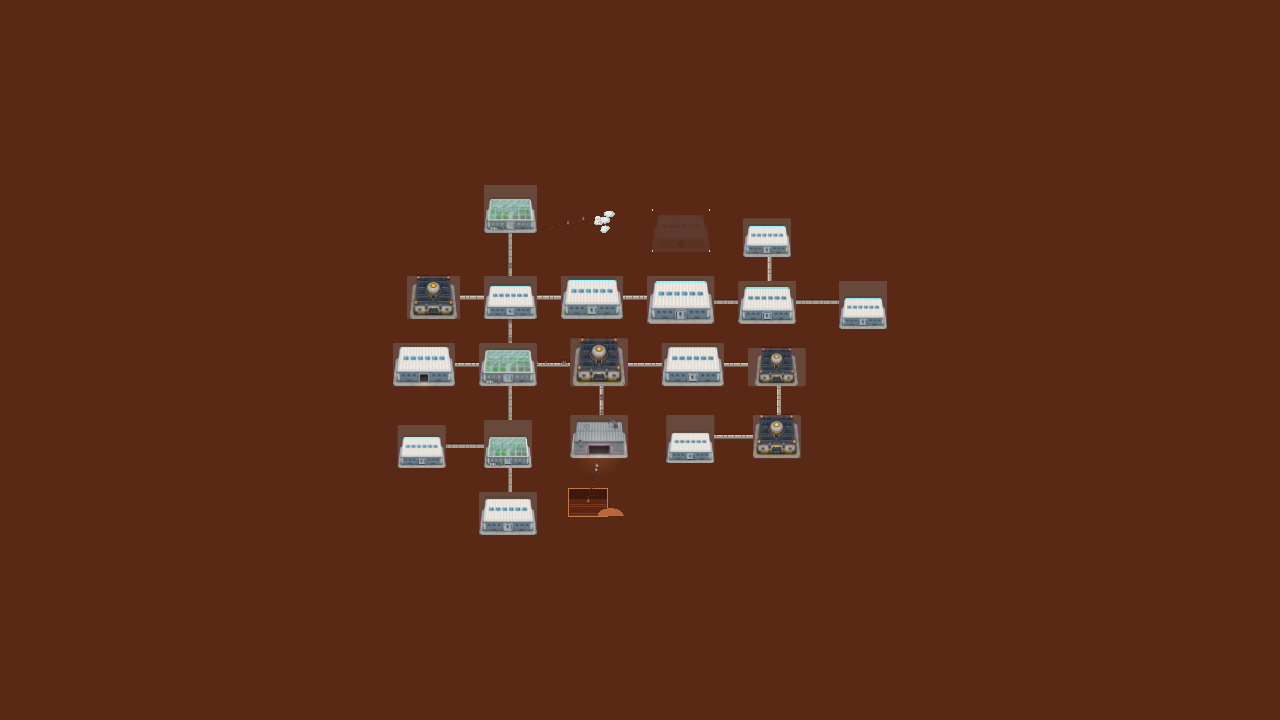
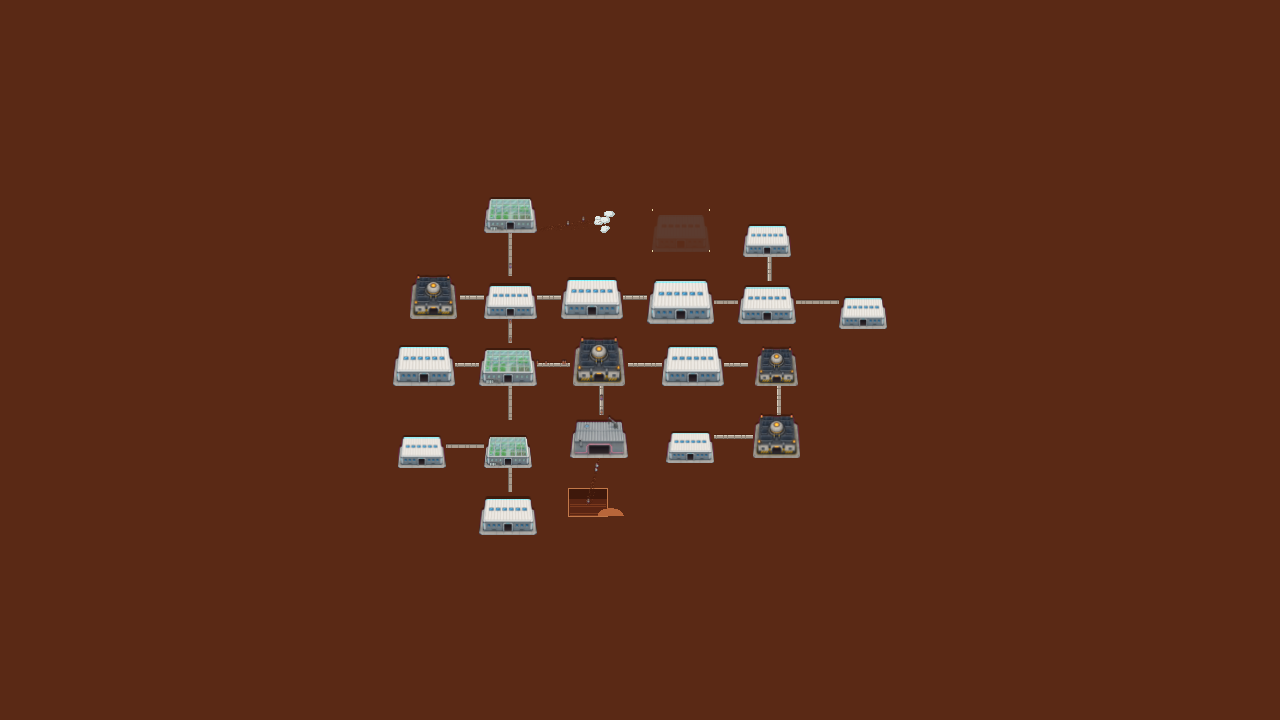
Task 2 review follow-ups: rebuilt manifest, refreshed far-zoom shots, LOD in spec
Adds a test that the committed manifest matches the committed art.json.

Claude-Session: https://claude.ai/code/session_01QaX6oeFXBBASm1RqZomNqz

diff --git a/station-zero/tools/tests/test_assets.py b/station-zero/tools/tests/test_assets.py
@@ -1772,3 +1772,15 @@ class TestAbsentRawsUsePlaceholderPath(PipelineCase):
 
 if __name__ == "__main__":
     unittest.main(verbosity=2)
+
+
+class TestCommittedManifestIsCurrent(unittest.TestCase):
+    """The committed manifest must match the committed art.json without a rebuild."""
+
+    def test_art_json_hash_matches_before_any_rebuild(self):
+        import hashlib, json
+        from pathlib import Path
+        root = Path(__file__).resolve().parents[2]
+        want = hashlib.sha256((root / "data" / "art.json").read_bytes()).hexdigest()
+        got = json.loads((root / "assets" / "processed" / "manifest.json").read_text())["art_json_sha256"]
+        self.assertEqual(got, want, "run python3 tools/build_all.py and commit the manifest")

diff --git a/station-zero/docs/specs/sprite-view.md b/station-zero/docs/specs/sprite-view.md
@@ -524,6 +524,9 @@ Kind table `art.kinds.<kind>`: `accent` (class for real art: reactor amber, habi
 - Particles emitted in an update are not aged in that update; `emitted` counts accepted plus dropped.
 - Tolerances: float32 Rect2/Vector2, so 1e-5 on scale, `fit.epsilon_px` on positions, 1e-4 on leaf offsets, 1e-3 on interior walk speed.
 
+## Level of detail (step 17)
+Below `lod.detail_min_zoom` (1.0) the view draws each building as its base plus one grouped light pass (accent and window masks by kind), and skips door leaves, halo copies, ground strips, door glow and foundation pads. Beings keep their sprite and skip the shadow and lamp glow. Offline dimming and construction phases stay visible at any zoom. Above the threshold nothing changes.
+
 ## Changelog
 - 2026-10-03 draft by game-designer. Pending: code-reviewer sign-off against HANDOFF sections 2 and 6 and the cited prototype lines.
 - 2026-10-03 revision 2 (code-reviewer findings B1-B7 and 10 non-blocking, owner decisions Q1-Q8). B1 `pipeline.raw_dirs` and `raw_ignore`; B2 `art.optional` (decals, sleeping poses), presence rule, `raw_sha256`, P-13, P-14, P-15; B3 violet class and real/placeholder accent per kind, P-7 for every kind with an accent; B4 shadow dx at h=4 is -12.0, clamp case at h=3 is -12.6; B5 walk phase clamp without pose jump (deviation from proto L1446 noted); B6 `interior_width_px` 512, budget 48 MB with a 44.2 MB hand estimate; B7 keying rule 1 plus 1b (near-pure magenta everywhere, P-3). Non-blocking: field names (`door(tile_px)`, `w.clock.mars_hour(w.t)`, owning building's `built`), door rule on `suit_kind()` and `building_id` not `mine`, A-label sources, prototype citation fixes (door fill, sleeper offset, lamp threshold, dropped glints, sparkle squash and hash constants into art.json), fit side effects, deterministic accumulator emission and T-C2, interior outline radius scaling, unbuilt dash colour, `art.schema`, interiors override path, magenta-corner fallback, `pillow_version` in the manifest. (The interim lamp rule of this revision, on from 19:00 to 05:00, is superseded by revision 3.)
